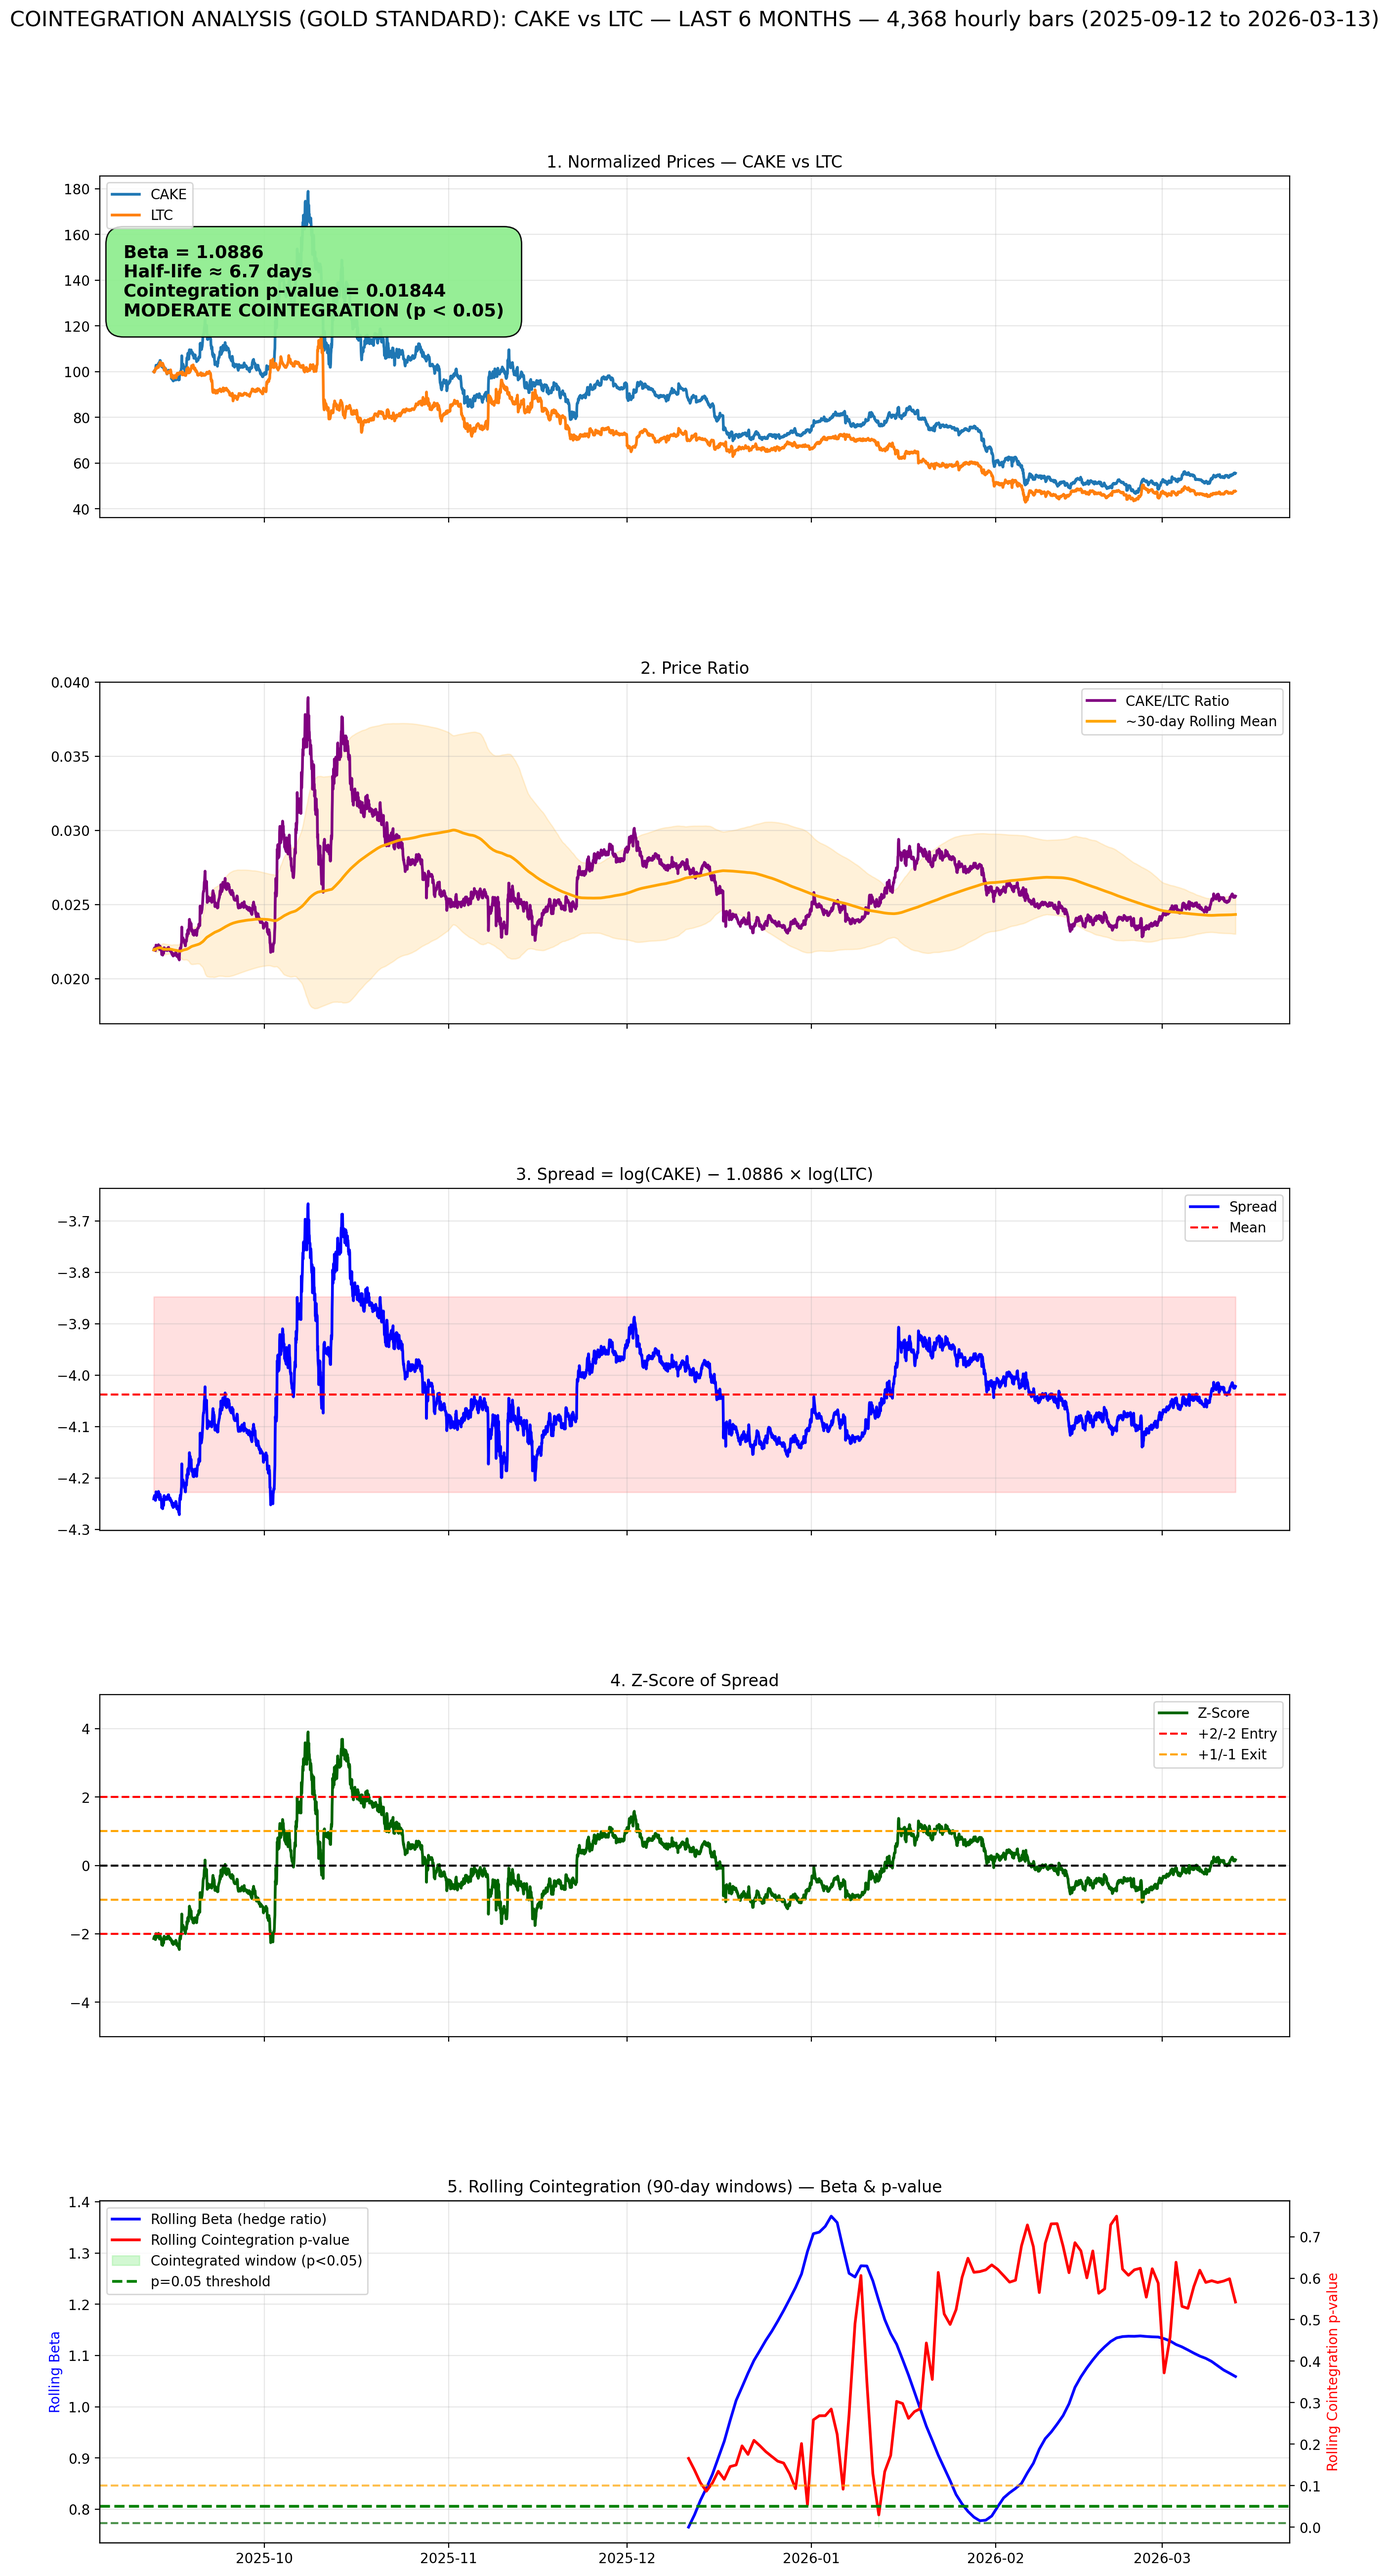
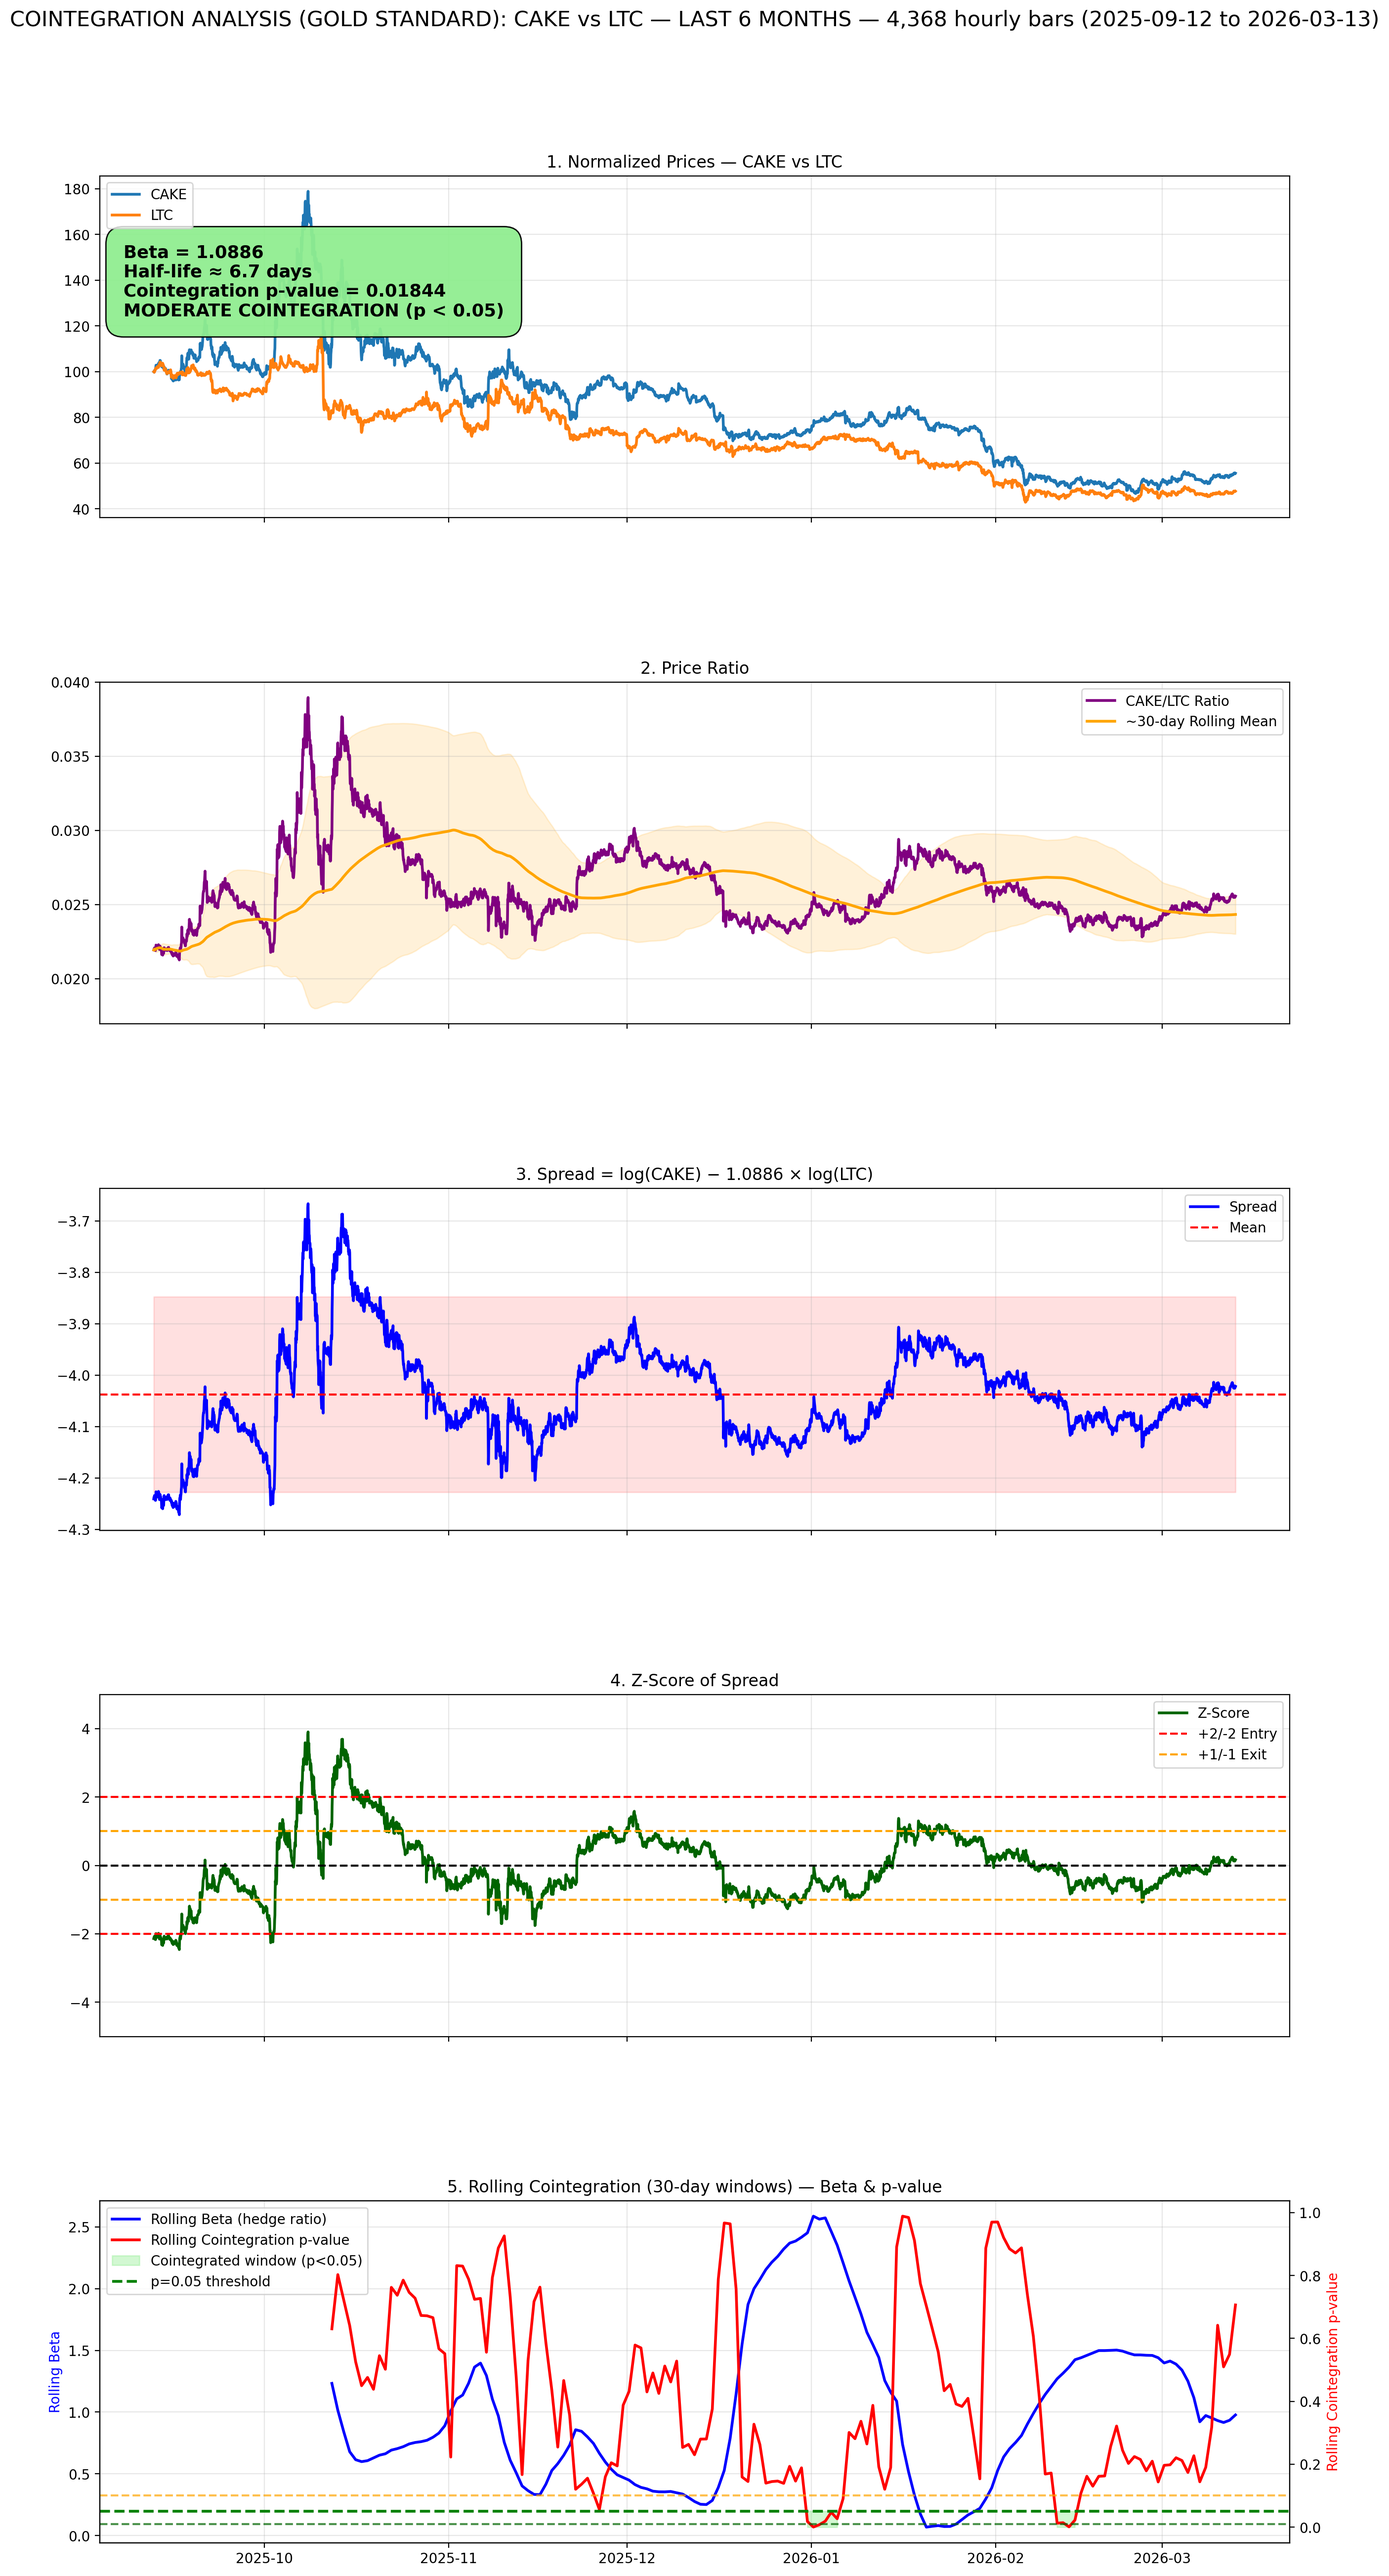
change in rolling window

Changed region(s): [[0.0928, 0.8705, 0.9285, 0.9948], [0.4642, 0.9016, 0.4952, 0.9326], [0.2476, 0.9016, 0.2785, 0.9326]]

diff --git a/src/pcv2/get_cointegration.py b/src/pcv2/get_cointegration.py
@@ -32,7 +32,7 @@ class CointegrationResults:
 
 class CointegrationAnalyzer:
     DEFAULT_CSV = DEFAULT_CSV_FILE
-    ROLLING_WINDOW_DAYS = 90
+    ROLLING_WINDOW_DAYS = 30          # ← CHANGED FROM 90 TO 30
 
     def __init__(self, sym1: str, sym2: str, csv_file: Optional[str] = None, max_months: int = DEFAULT_MAX_MONTHS):
         self.sym1 = sym1.upper()
@@ -120,7 +120,7 @@ class CointegrationAnalyzer:
         print(f"→ {verdict_console}")
 
         # === Rolling cointegration ===
-        print(f"\nComputing rolling cointegration (90-day windows, updated daily) on last {self.max_months} months...")
+        print(f"\nComputing rolling cointegration ({self.ROLLING_WINDOW_DAYS}-day windows, updated daily) on last {self.max_months} months...")
         window = self.ROLLING_WINDOW_DAYS * 24
         step = 24
         rolling_dates, rolling_betas, rolling_pvals = [], [], []

diff --git a/src/pcv2/draw_cointegration_chart.py b/src/pcv2/draw_cointegration_chart.py
@@ -103,7 +103,7 @@ class CointegrationChart:
 
         ax_beta.set_ylabel('Rolling Beta', color='blue')
         ax_p.set_ylabel('Rolling Cointegration p-value', color='red')
-        ax_beta.set_title("5. Rolling Cointegration (90-day windows) — Beta & p-value")
+        ax_beta.set_title(f"5. Rolling Cointegration ({self.analyzer.ROLLING_WINDOW_DAYS}-day windows) — Beta & p-value")  # ← CHANGED (now dynamic)
         ax_beta.grid(True, alpha=0.3)
 
         lines1, labels1 = ax_beta.get_legend_handles_labels()
